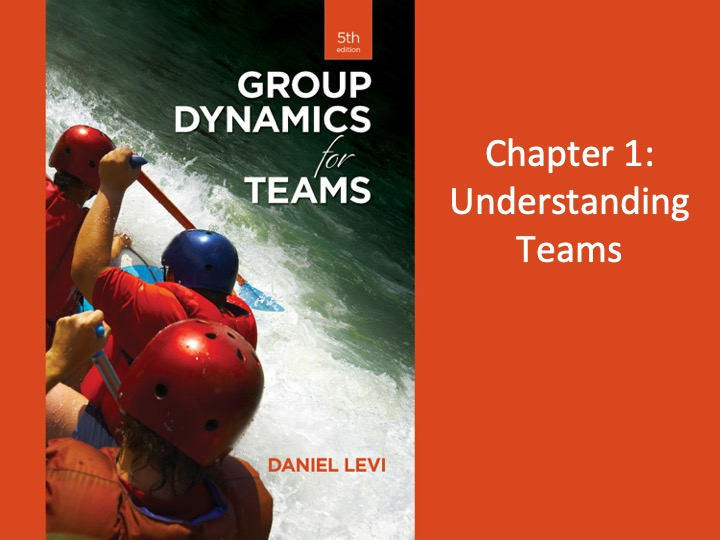
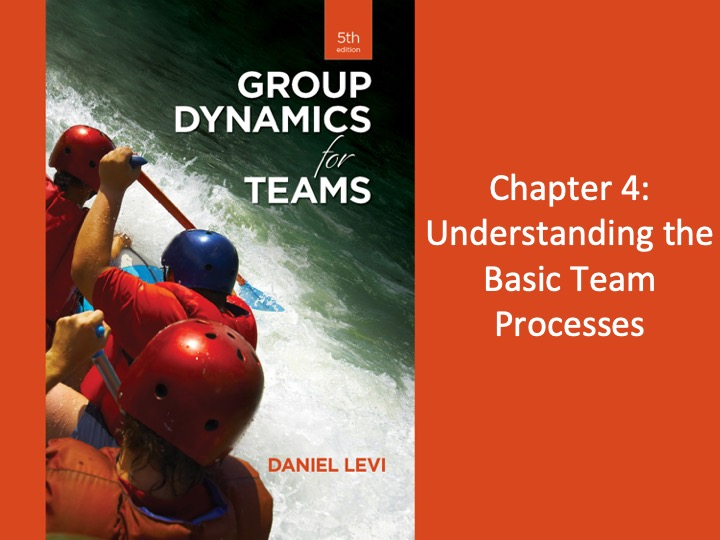
week 2 deck

Changed region(s): [[0.5806, 0.237, 1.0, 0.6222]]

diff --git a/LDRS502-2/PITCHME.md b/LDRS502-2/PITCHME.md
@@ -1,7 +1,7 @@
 
 # Leadership 502
 
-### Week 1 Slide Deck
+### Week 2 Slide Deck
 
 ---
 
